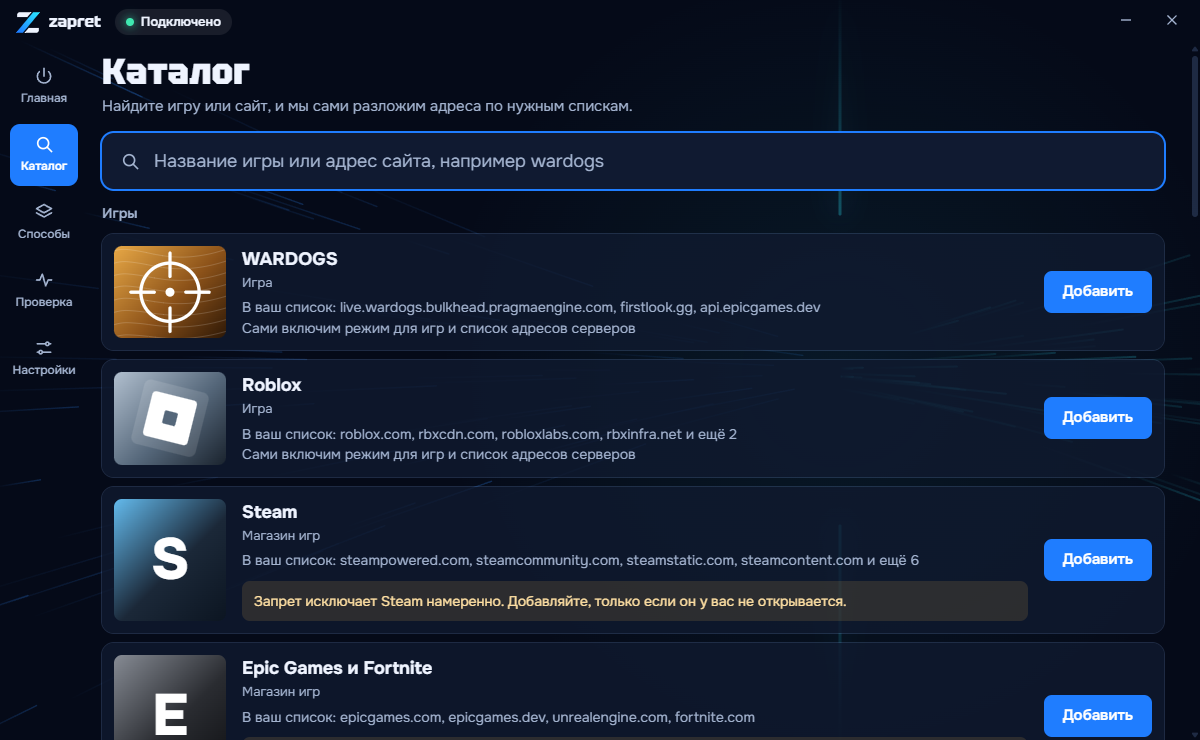
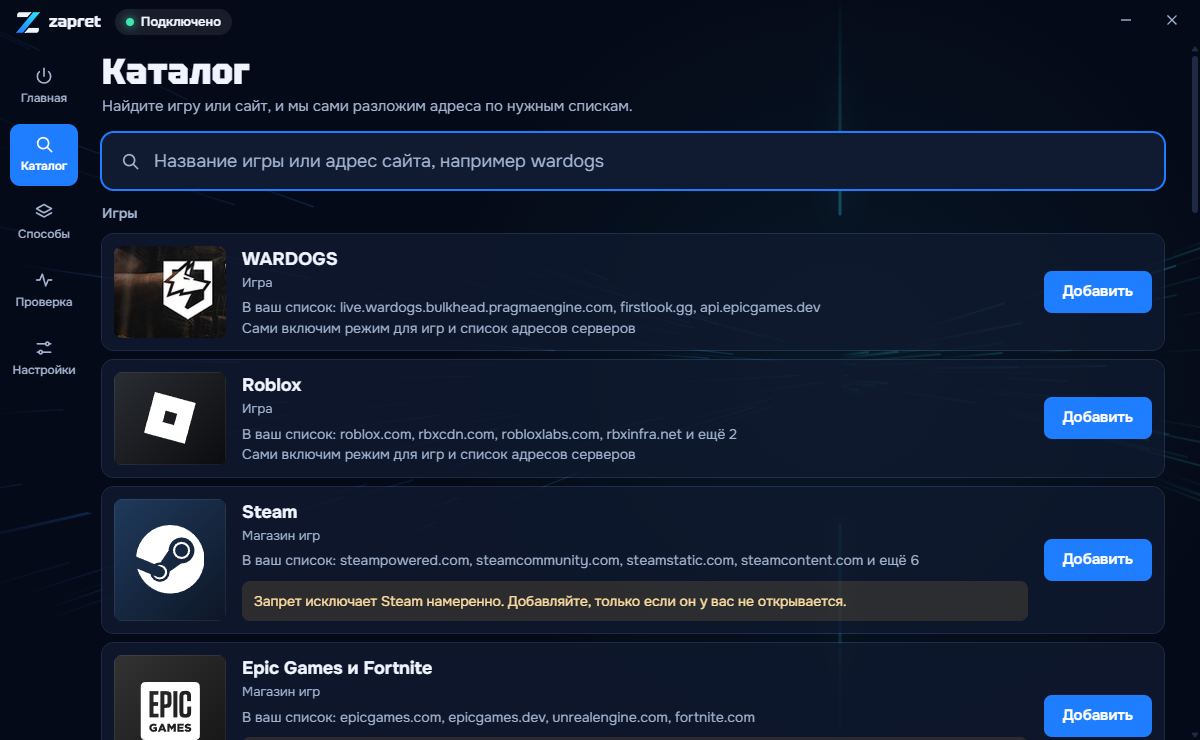
Настоящие логотипы игр и сервисов, версия 1.2.0

Changed region(s): [[0.0925, 0.4973, 0.2158, 0.8081], [0.0925, 0.3108, 0.2158, 0.4662], [0.0925, 0.8703, 0.185, 1.0]]

diff --git a/src/renderer/brands.js b/src/renderer/brands.js
@@ -1,0 +1,23 @@
+// Логотипы принадлежат их владельцам и показывают, какой сервис подключается.
+// Источники: simple-icons (CC0) и @lobehub/icons (MIT). Блок Minecraft нарисован здесь.
+const BRANDS = {
+  yt: { bg: 'linear-gradient(135deg,#ff0033,#c4001f)', svg: '<svg viewBox="0 0 24 24" aria-hidden="true"><path fill="#fff" d="M23.498 6.186a3.016 3.016 0 0 0-2.122-2.136C19.505 3.545 12 3.545 12 3.545s-7.505 0-9.377.505A3.017 3.017 0 0 0 .502 6.186C0 8.07 0 12 0 12s0 3.93.502 5.814a3.016 3.016 0 0 0 2.122 2.136c1.871.505 9.376.505 9.376.505s7.505 0 9.377-.505a3.015 3.015 0 0 0 2.122-2.136C24 15.93 24 12 24 12s0-3.93-.502-5.814zM9.545 15.568V8.432L15.818 12l-6.273 3.568z"/></svg>' },
+  dc: { bg: 'linear-gradient(135deg,#5865f2,#4149c9)', svg: '<svg viewBox="0 0 24 24" aria-hidden="true"><path fill="#fff" d="M20.317 4.3698a19.7913 19.7913 0 00-4.8851-1.5152.0741.0741 0 00-.0785.0371c-.211.3753-.4447.8648-.6083 1.2495-1.8447-.2762-3.68-.2762-5.4868 0-.1636-.3933-.4058-.8742-.6177-1.2495a.077.077 0 00-.0785-.037 19.7363 19.7363 0 00-4.8852 1.515.0699.0699 0 00-.0321.0277C.5334 9.0458-.319 13.5799.0992 18.0578a.0824.0824 0 00.0312.0561c2.0528 1.5076 4.0413 2.4228 5.9929 3.0294a.0777.0777 0 00.0842-.0276c.4616-.6304.8731-1.2952 1.226-1.9942a.076.076 0 00-.0416-.1057c-.6528-.2476-1.2743-.5495-1.8722-.8923a.077.077 0 01-.0076-.1277c.1258-.0943.2517-.1923.3718-.2914a.0743.0743 0 01.0776-.0105c3.9278 1.7933 8.18 1.7933 12.0614 0a.0739.0739 0 01.0785.0095c.1202.099.246.1981.3728.2924a.077.077 0 01-.0066.1276 12.2986 12.2986 0 01-1.873.8914.0766.0766 0 00-.0407.1067c.3604.698.7719 1.3628 1.225 1.9932a.076.076 0 00.0842.0286c1.961-.6067 3.9495-1.5219 6.0023-3.0294a.077.077 0 00.0313-.0552c.5004-5.177-.8382-9.6739-3.5485-13.6604a.061.061 0 00-.0312-.0286zM8.02 15.3312c-1.1825 0-2.1569-1.0857-2.1569-2.419 0-1.3332.9555-2.4189 2.157-2.4189 1.2108 0 2.1757 1.0952 2.1568 2.419 0 1.3332-.9555 2.4189-2.1569 2.4189zm7.9748 0c-1.1825 0-2.1569-1.0857-2.1569-2.419 0-1.3332.9554-2.4189 2.1569-2.4189 1.2108 0 2.1757 1.0952 2.1568 2.419 0 1.3332-.946 2.4189-2.1568 2.4189Z"/></svg>' },
+  minecraft: { bg: 'linear-gradient(135deg,#7cc0ea,#3f7fb5)', svg: '<svg viewBox="0 0 24 24" aria-hidden="true"><path fill="#86c552" d="M12 2l10 5-10 5L2 7z"/><path fill="#6aa83c" d="M2 7l10 5v3L2 10z"/><path fill="#4f8a2c" d="M22 7l-10 5v3l10-5z"/><path fill="#8d5f3c" d="M2 10l10 5v7L2 17z"/><path fill="#6c4629" d="M22 10l-10 5v7l10-5z"/><path fill="#a47350" d="M4 13l2 1v2l-2-1zM8 16l2 1v2l-2-1z"/><path fill="#55351e" d="M15 18l2-1v2l-2 1zM19 15l2-1v2l-2 1z"/></svg>' },
+  roblox: { bg: 'linear-gradient(135deg,#2a2d33,#0b0c0e)', svg: '<svg viewBox="0 0 24 24" aria-hidden="true"><path fill="#fff" d="M18.926 23.998 0 18.892 5.075.002 24 5.108ZM15.348 10.09l-5.282-1.453-1.414 5.273 5.282 1.453z"/></svg>' },
+  steam: { bg: 'linear-gradient(135deg,#1f3a5c,#0d1626)', svg: '<svg viewBox="0 0 24 24" aria-hidden="true"><path fill="#fff" d="M11.979 0C5.678 0 .511 4.86.022 11.037l6.432 2.658c.545-.371 1.203-.59 1.912-.59.063 0 .125.004.188.006l2.861-4.142V8.91c0-2.495 2.028-4.524 4.524-4.524 2.494 0 4.524 2.031 4.524 4.527s-2.03 4.525-4.524 4.525h-.105l-4.076 2.911c0 .052.004.105.004.159 0 1.875-1.515 3.396-3.39 3.396-1.635 0-3.016-1.173-3.331-2.727L.436 15.27C1.862 20.307 6.486 24 11.979 24c6.627 0 11.999-5.373 11.999-12S18.605 0 11.979 0zM7.54 18.21l-1.473-.61c.262.543.714.999 1.314 1.25 1.297.539 2.793-.076 3.332-1.375.263-.63.264-1.319.005-1.949s-.75-1.121-1.377-1.383c-.624-.26-1.29-.249-1.878-.03l1.523.63c.956.4 1.409 1.5 1.009 2.455-.397.957-1.497 1.41-2.454 1.012H7.54zm11.415-9.303c0-1.662-1.353-3.015-3.015-3.015-1.665 0-3.015 1.353-3.015 3.015 0 1.665 1.35 3.015 3.015 3.015 1.663 0 3.015-1.35 3.015-3.015zm-5.273-.005c0-1.252 1.013-2.266 2.265-2.266 1.249 0 2.266 1.014 2.266 2.266 0 1.251-1.017 2.265-2.266 2.265-1.253 0-2.265-1.014-2.265-2.265z"/></svg>' },
+  epic: { bg: 'linear-gradient(135deg,#333,#121212)', svg: '<svg viewBox="0 0 24 24" aria-hidden="true"><path fill="#fff" d="M3.537 0C2.165 0 1.66.506 1.66 1.879V18.44a4.262 4.262 0 00.02.433c.031.3.037.59.316.92.027.033.311.245.311.245.153.075.258.13.43.2l8.335 3.491c.433.199.614.276.928.27h.002c.314.006.495-.071.928-.27l8.335-3.492c.172-.07.277-.124.43-.2 0 0 .284-.211.311-.243.28-.33.285-.621.316-.92a4.261 4.261 0 00.02-.434V1.879c0-1.373-.506-1.88-1.878-1.88zm13.366 3.11h.68c1.138 0 1.688.553 1.688 1.696v1.88h-1.374v-1.8c0-.369-.17-.54-.523-.54h-.235c-.367 0-.537.17-.537.539v5.81c0 .369.17.54.537.54h.262c.353 0 .523-.171.523-.54V8.619h1.373v2.143c0 1.144-.562 1.71-1.7 1.71h-.694c-1.138 0-1.7-.566-1.7-1.71V4.82c0-1.144.562-1.709 1.7-1.709zm-12.186.08h3.114v1.274H6.117v2.603h1.648v1.275H6.117v2.774h1.74v1.275h-3.14zm3.816 0h2.198c1.138 0 1.7.564 1.7 1.708v2.445c0 1.144-.562 1.71-1.7 1.71h-.799v3.338h-1.4zm4.53 0h1.4v9.201h-1.4zm-3.13 1.235v3.392h.575c.354 0 .523-.171.523-.54V4.965c0-.368-.17-.54-.523-.54zm-3.74 10.147a1.708 1.708 0 01.591.108 1.745 1.745 0 01.49.299l-.452.546a1.247 1.247 0 00-.308-.195.91.91 0 00-.363-.068.658.658 0 00-.28.06.703.703 0 00-.224.163.783.783 0 00-.151.243.799.799 0 00-.056.299v.008a.852.852 0 00.056.31.7.7 0 00.157.245.736.736 0 00.238.16.774.774 0 00.303.058.79.79 0 00.445-.116v-.339h-.548v-.565H7.37v1.255a2.019 2.019 0 01-.524.307 1.789 1.789 0 01-.683.123 1.642 1.642 0 01-.602-.107 1.46 1.46 0 01-.478-.3 1.371 1.371 0 01-.318-.455 1.438 1.438 0 01-.115-.58v-.008a1.426 1.426 0 01.113-.57 1.449 1.449 0 01.312-.46 1.418 1.418 0 01.474-.309 1.58 1.58 0 01.598-.111 1.708 1.708 0 01.045 0zm11.963.008a2.006 2.006 0 01.612.094 1.61 1.61 0 01.507.277l-.386.546a1.562 1.562 0 00-.39-.205 1.178 1.178 0 00-.388-.07.347.347 0 00-.208.052.154.154 0 00-.07.127v.008a.158.158 0 00.022.084.198.198 0 00.076.066.831.831 0 00.147.06c.062.02.14.04.236.061a3.389 3.389 0 01.43.122 1.292 1.292 0 01.328.17.678.678 0 01.207.24.739.739 0 01.071.337v.008a.865.865 0 01-.081.382.82.82 0 01-.229.285 1.032 1.032 0 01-.353.18 1.606 1.606 0 01-.46.061 2.16 2.16 0 01-.71-.116 1.718 1.718 0 01-.593-.346l.43-.514c.277.223.578.335.9.335a.457.457 0 00.236-.05.157.157 0 00.082-.142v-.008a.15.15 0 00-.02-.077.204.204 0 00-.073-.066.753.753 0 00-.143-.062 2.45 2.45 0 00-.233-.062 5.036 5.036 0 01-.413-.113 1.26 1.26 0 01-.331-.16.72.72 0 01-.222-.243.73.73 0 01-.082-.36v-.008a.863.863 0 01.074-.359.794.794 0 01.214-.283 1.007 1.007 0 01.34-.185 1.423 1.423 0 01.448-.066 2.006 2.006 0 01.025 0zm-9.358.025h.742l1.183 2.81h-.825l-.203-.499H8.623l-.198.498h-.81zm2.197.02h.814l.663 1.08.663-1.08h.814v2.79h-.766v-1.602l-.711 1.091h-.016l-.707-1.083v1.593h-.754zm3.469 0h2.235v.658h-1.473v.422h1.334v.61h-1.334v.442h1.493v.658h-2.255zm-5.3.897l-.315.793h.624zm-1.145 5.19h8.014l-4.09 1.348z"/></svg>' },
+  riot: { bg: 'linear-gradient(135deg,#eb0029,#a8001d)', svg: '<svg viewBox="0 0 24 24" aria-hidden="true"><path fill="#fff" d="M13.458.86 0 7.093l3.353 12.761 2.552-.313-.701-8.024.838-.373 1.447 8.202 4.361-.535-.775-8.857.83-.37 1.591 9.025 4.412-.542-.849-9.708.84-.374 1.74 9.87L24 17.318V3.5Zm.316 19.356.222 1.256L24 23.14v-4.18l-10.22 1.256Z"/></svg>' },
+  battlenet: { bg: 'linear-gradient(135deg,#1a95ff,#0a5ec4)', svg: '<svg viewBox="0 0 24 24" aria-hidden="true"><path fill="#fff" d="M18.94 8.296C15.9 6.892 11.534 6 7.426 6.332c.206-1.36.714-2.308 1.548-2.508 1.148-.275 2.4.48 3.594 1.854.782.102 1.71.28 2.355.429C12.747 2.013 9.828-.282 7.607.565c-1.688.644-2.553 2.97-2.448 6.094-2.2.468-3.915 1.3-5.013 2.495-.056.065-.181.227-.137.305.034.058.146-.008.194-.04 1.274-.89 2.904-1.373 5.027-1.676.303 3.333 1.713 7.56 4.055 10.952-1.28.502-2.356.536-2.946-.087-.812-.856-.784-2.318-.19-4.04a26.764 26.764 0 0 1-.807-2.254c-2.459 3.934-2.986 7.61-1.143 9.11 1.402 1.14 3.847.725 6.502-.926 1.505 1.672 3.083 2.74 4.667 3.094.084.015.287.043.332-.034.034-.06-.08-.124-.131-.149-1.408-.657-2.64-1.828-3.964-3.515 2.735-1.929 5.691-5.263 7.457-8.988 1.076.86 1.64 1.773 1.398 2.595-.336 1.131-1.615 1.84-3.403 2.185a27.697 27.697 0 0 1-1.548 1.826c4.634.16 8.08-1.22 8.458-3.565.286-1.786-1.295-3.696-4.053-5.17.696-2.139.832-4.04.346-5.588-.029-.08-.106-.27-.196-.27-.068 0-.067.13-.063.187.135 1.547-.263 3.2-1.062 5.19zm-8.533 9.869c-1.96-3.145-3.09-6.849-3.082-10.594 3.702-.124 7.474.748 10.714 2.627-1.743 3.269-4.385 6.1-7.633 7.966h.001z"/></svg>' },
+  newgrounds: { bg: 'linear-gradient(135deg,#f9a12e,#dd6a00)', svg: '<svg viewBox="0 0 24 24" aria-hidden="true"><path fill="#fff" d="M1.187 3.236C.397 3.966.002 4.876.002 5.97v15.584c-.02.243.101.364.365.364H3.07c.243 0 .365-.121.365-.364V6.03c0-.405.212-.608.638-.608H6.29c.405 0 .608.203.608.608v15.523c0 .243.142.364.425.364h2.643c.243 0 .374-.121.395-.364V5.97c-.02-1.093-.415-2.005-1.185-2.734A4.047 4.047 0 0 0 6.29 2.082H4.073c-1.134 0-2.096.385-2.886 1.154m20.9 18.105c.263-.162.506-.344.728-.547.79-.77 1.185-1.68 1.185-2.734v-5.62c-.02-.263-.152-.394-.395-.394h-4.374c-.263 0-.395.131-.395.394v2.522c0 .263.132.395.395.395h.941c.244 0 .365.141.365.425v2.278c0 .385-.192.577-.577.577h-2.248c-.425 0-.638-.192-.638-.577V6.03c0-.404.213-.607.638-.607h2.248c.385 0 .577.203.577.608V8.34c-.02.243.111.374.395.394h2.673c.243-.02.375-.151.395-.394V5.97c0-1.073-.395-1.984-1.185-2.734-.81-.77-1.762-1.154-2.855-1.154h-2.248c-1.114 0-2.066.385-2.855 1.154-.83.75-1.236 1.66-1.216 2.734v12.09c-.02 1.053.385 1.965 1.216 2.734.222.203.465.385.729.547.627.385 1.336.577 2.126.577h2.248c.79 0 1.498-.192 2.126-.577Z"/></svg>' },
+  twitch: { bg: 'linear-gradient(135deg,#9146ff,#6425d0)', svg: '<svg viewBox="0 0 24 24" aria-hidden="true"><path fill="#fff" d="M11.571 4.714h1.715v5.143H11.57zm4.715 0H18v5.143h-1.714zM6 0L1.714 4.286v15.428h5.143V24l4.286-4.286h3.428L22.286 12V0zm14.571 11.143l-3.428 3.428h-3.429l-3 3v-3H6.857V1.714h13.714Z"/></svg>' },
+  x: { bg: 'linear-gradient(135deg,#25282e,#000)', svg: '<svg viewBox="0 0 24 24" aria-hidden="true"><path fill="#fff" d="M14.234 10.162 22.977 0h-2.072l-7.591 8.824L7.251 0H.258l9.168 13.343L.258 24H2.33l8.016-9.318L16.749 24h6.993zm-2.837 3.299-.929-1.329L3.076 1.56h3.182l5.965 8.532.929 1.329 7.754 11.09h-3.182z"/></svg>' },
+  instagram: { bg: 'linear-gradient(45deg,#feda75,#fa7e1e 25%,#d62976 55%,#962fbf 80%,#4f5bd5)', svg: '<svg viewBox="0 0 24 24" aria-hidden="true"><path fill="#fff" d="M7.0301.084c-1.2768.0602-2.1487.264-2.911.5634-.7888.3075-1.4575.72-2.1228 1.3877-.6652.6677-1.075 1.3368-1.3802 2.127-.2954.7638-.4956 1.6365-.552 2.914-.0564 1.2775-.0689 1.6882-.0626 4.947.0062 3.2586.0206 3.6671.0825 4.9473.061 1.2765.264 2.1482.5635 2.9107.308.7889.72 1.4573 1.388 2.1228.6679.6655 1.3365 1.0743 2.1285 1.38.7632.295 1.6361.4961 2.9134.552 1.2773.056 1.6884.069 4.9462.0627 3.2578-.0062 3.668-.0207 4.9478-.0814 1.28-.0607 2.147-.2652 2.9098-.5633.7889-.3086 1.4578-.72 2.1228-1.3881.665-.6682 1.0745-1.3378 1.3795-2.1284.2957-.7632.4966-1.636.552-2.9124.056-1.2809.0692-1.6898.063-4.948-.0063-3.2583-.021-3.6668-.0817-4.9465-.0607-1.2797-.264-2.1487-.5633-2.9117-.3084-.7889-.72-1.4568-1.3876-2.1228C21.2982 1.33 20.628.9208 19.8378.6165 19.074.321 18.2017.1197 16.9244.0645 15.6471.0093 15.236-.005 11.977.0014 8.718.0076 8.31.0215 7.0301.0839m.1402 21.6932c-1.17-.0509-1.8053-.2453-2.2287-.408-.5606-.216-.96-.4771-1.3819-.895-.422-.4178-.6811-.8186-.9-1.378-.1644-.4234-.3624-1.058-.4171-2.228-.0595-1.2645-.072-1.6442-.079-4.848-.007-3.2037.0053-3.583.0607-4.848.05-1.169.2456-1.805.408-2.2282.216-.5613.4762-.96.895-1.3816.4188-.4217.8184-.6814 1.3783-.9003.423-.1651 1.0575-.3614 2.227-.4171 1.2655-.06 1.6447-.072 4.848-.079 3.2033-.007 3.5835.005 4.8495.0608 1.169.0508 1.8053.2445 2.228.408.5608.216.96.4754 1.3816.895.4217.4194.6816.8176.9005 1.3787.1653.4217.3617 1.056.4169 2.2263.0602 1.2655.0739 1.645.0796 4.848.0058 3.203-.0055 3.5834-.061 4.848-.051 1.17-.245 1.8055-.408 2.2294-.216.5604-.4763.96-.8954 1.3814-.419.4215-.8181.6811-1.3783.9-.4224.1649-1.0577.3617-2.2262.4174-1.2656.0595-1.6448.072-4.8493.079-3.2045.007-3.5825-.006-4.848-.0608M16.953 5.5864A1.44 1.44 0 1 0 18.39 4.144a1.44 1.44 0 0 0-1.437 1.4424M5.8385 12.012c.0067 3.4032 2.7706 6.1557 6.173 6.1493 3.4026-.0065 6.157-2.7701 6.1506-6.1733-.0065-3.4032-2.771-6.1565-6.174-6.1498-3.403.0067-6.156 2.771-6.1496 6.1738M8 12.0077a4 4 0 1 1 4.008 3.9921A3.9996 3.9996 0 0 1 8 12.0077"/></svg>' },
+  facebook: { bg: 'linear-gradient(135deg,#1f83f5,#0f5fd1)', svg: '<svg viewBox="0 0 24 24" aria-hidden="true"><path fill="#fff" d="M9.101 23.691v-7.98H6.627v-3.667h2.474v-1.58c0-4.085 1.848-5.978 5.858-5.978.401 0 .955.042 1.468.103a8.68 8.68 0 0 1 1.141.195v3.325a8.623 8.623 0 0 0-.653-.036 26.805 26.805 0 0 0-.733-.009c-.707 0-1.259.096-1.675.309a1.686 1.686 0 0 0-.679.622c-.258.42-.374.995-.374 1.752v1.297h3.919l-.386 2.103-.287 1.564h-3.246v8.245C19.396 23.238 24 18.179 24 12.044c0-6.627-5.373-12-12-12s-12 5.373-12 12c0 5.628 3.874 10.35 9.101 11.647Z"/></svg>' },
+  chatgpt: { bg: 'linear-gradient(135deg,#14b58e,#0a7a5e)', svg: '<svg viewBox="0 0 24 24" aria-hidden="true"><path fill-rule="evenodd" fill="#fff" d="M9.205 8.658v-2.26c0-.19.072-.333.238-.428l4.543-2.616c.619-.357 1.356-.523 2.117-.523 2.854 0 4.662 2.212 4.662 4.566 0 .167 0 .357-.024.547l-4.71-2.759a.797.797 0 00-.856 0l-5.97 3.473zm10.609 8.8V12.06c0-.333-.143-.57-.429-.737l-5.97-3.473 1.95-1.118a.433.433 0 01.476 0l4.543 2.617c1.309.76 2.189 2.378 2.189 3.948 0 1.808-1.07 3.473-2.76 4.163zM7.802 12.703l-1.95-1.142c-.167-.095-.239-.238-.239-.428V5.899c0-2.545 1.95-4.472 4.591-4.472 1 0 1.927.333 2.712.928L8.23 5.067c-.285.166-.428.404-.428.737v6.898zM12 15.128l-2.795-1.57v-3.33L12 8.658l2.795 1.57v3.33L12 15.128zm1.796 7.23c-1 0-1.927-.332-2.712-.927l4.686-2.712c.285-.166.428-.404.428-.737v-6.898l1.974 1.142c.167.095.238.238.238.428v5.233c0 2.545-1.974 4.472-4.614 4.472zm-5.637-5.303l-4.544-2.617c-1.308-.761-2.188-2.378-2.188-3.948A4.482 4.482 0 014.21 6.327v5.423c0 .333.143.571.428.738l5.947 3.449-1.95 1.118a.432.432 0 01-.476 0zm-.262 3.9c-2.688 0-4.662-2.021-4.662-4.519 0-.19.024-.38.047-.57l4.686 2.71c.286.167.571.167.856 0l5.97-3.448v2.26c0 .19-.07.333-.237.428l-4.543 2.616c-.619.357-1.356.523-2.117.523zm5.899 2.83a5.947 5.947 0 005.827-4.756C22.287 18.339 24 15.84 24 13.296c0-1.665-.713-3.282-1.998-4.448.119-.5.19-.999.19-1.498 0-3.401-2.759-5.947-5.946-5.947-.642 0-1.26.095-1.88.31A5.962 5.962 0 0010.205 0a5.947 5.947 0 00-5.827 4.757C1.713 5.447 0 7.945 0 10.49c0 1.666.713 3.283 1.998 4.448-.119.5-.19 1-.19 1.499 0 3.401 2.759 5.946 5.946 5.946.642 0 1.26-.095 1.88-.309a5.96 5.96 0 004.162 1.713z"/></svg>' },
+  grok: { bg: 'linear-gradient(135deg,#25282e,#000)', svg: '<svg viewBox="0 0 24 24" aria-hidden="true"><path fill-rule="evenodd" fill="#fff" d="M9.27 15.29l7.978-5.897c.391-.29.95-.177 1.137.272.98 2.369.542 5.215-1.41 7.169-1.951 1.954-4.667 2.382-7.149 1.406l-2.711 1.257c3.889 2.661 8.611 2.003 11.562-.953 2.341-2.344 3.066-5.539 2.388-8.42l.006.007c-.983-4.232.242-5.924 2.75-9.383.06-.082.12-.164.179-.248l-3.301 3.305v-.01L9.267 15.292M7.623 16.723c-2.792-2.67-2.31-6.801.071-9.184 1.761-1.763 4.647-2.483 7.166-1.425l2.705-1.25a7.808 7.808 0 00-1.829-1A8.975 8.975 0 005.984 5.83c-2.533 2.536-3.33 6.436-1.962 9.764 1.022 2.487-.653 4.246-2.34 6.022-.599.63-1.199 1.259-1.682 1.925l7.62-6.815"/></svg>' },
+  deepseek: { bg: 'linear-gradient(135deg,#4d6bfe,#2f49d4)', svg: '<svg viewBox="0 0 24 24" aria-hidden="true"><path fill="#fff" d="M23.748 4.651c-.254-.124-.364.113-.512.233-.051.04-.094.09-.137.137-.372.397-.806.657-1.373.626-.829-.046-1.537.214-2.163.848-.133-.782-.575-1.248-1.247-1.548-.352-.155-.708-.311-.955-.65-.172-.24-.219-.509-.305-.774-.055-.16-.11-.323-.293-.35-.2-.031-.278.136-.356.276-.313.572-.434 1.202-.422 1.84.027 1.436.633 2.58 1.838 3.393.137.094.172.187.129.323-.082.28-.18.553-.266.833-.055.179-.137.218-.328.14a5.5 5.5 0 0 1-1.737-1.179c-.857-.828-1.631-1.743-2.597-2.46a12 12 0 0 0-.689-.47c-.985-.957.13-1.743.387-1.836.27-.098.094-.433-.778-.428-.872.003-1.67.295-2.687.685a3 3 0 0 1-.465.136 9.6 9.6 0 0 0-2.883-.101c-1.885.21-3.39 1.1-4.497 2.622C.082 8.776-.231 10.854.152 13.02c.403 2.284 1.568 4.175 3.36 5.653 1.857 1.533 3.997 2.284 6.438 2.14 1.482-.085 3.132-.284 4.994-1.86.47.234.962.328 1.78.398.629.058 1.235-.031 1.705-.129.735-.155.684-.836.418-.961-2.155-1.004-1.682-.595-2.112-.926 1.095-1.295 2.768-3.598 3.284-6.733.05-.346.115-.834.108-1.114-.004-.171.035-.238.23-.257a4.2 4.2 0 0 0 1.545-.475c1.397-.763 1.96-2.016 2.093-3.517.02-.23-.004-.467-.247-.588M11.58 18.168c-2.088-1.642-3.101-2.183-3.52-2.16-.39.024-.32.472-.234.763.09.288.207.487.371.74.114.167.192.416-.113.603-.673.416-1.842-.14-1.897-.168-1.361-.801-2.5-1.86-3.301-3.306-.775-1.393-1.225-2.888-1.299-4.482-.02-.385.094-.522.477-.592a4.7 4.7 0 0 1 1.53-.038c2.131.311 3.946 1.264 5.467 2.774.868.86 1.525 1.887 2.202 2.89.72 1.066 1.494 2.082 2.48 2.915.348.291.626.513.892.677-.802.09-2.14.109-3.055-.615zm1.001-6.44a.306.306 0 0 1 .415-.287.3.3 0 0 1 .113.074.3.3 0 0 1 .086.214c0 .17-.136.307-.308.307a.303.303 0 0 1-.306-.307m3.11 1.596c-.2.081-.4.151-.591.16a1.25 1.25 0 0 1-.798-.254c-.274-.23-.47-.358-.551-.758a1.7 1.7 0 0 1 .015-.588c.07-.327-.007-.537-.238-.727-.188-.156-.426-.199-.689-.199a.6.6 0 0 1-.254-.078.253.253 0 0 1-.114-.358 1 1 0 0 1 .192-.21c.356-.202.767-.136 1.146.016.352.144.618.408 1.001.782.392.451.462.576.685.915.176.264.336.536.446.848.066.194-.02.353-.25.45"/></svg>' },
+  github: { bg: 'linear-gradient(135deg,#2d333b,#0d1117)', svg: '<svg viewBox="0 0 24 24" aria-hidden="true"><path fill="#fff" d="M12 .297c-6.63 0-12 5.373-12 12 0 5.303 3.438 9.8 8.205 11.385.6.113.82-.258.82-.577 0-.285-.01-1.04-.015-2.04-3.338.724-4.042-1.61-4.042-1.61C4.422 18.07 3.633 17.7 3.633 17.7c-1.087-.744.084-.729.084-.729 1.205.084 1.838 1.236 1.838 1.236 1.07 1.835 2.809 1.305 3.495.998.108-.776.417-1.305.76-1.605-2.665-.3-5.466-1.332-5.466-5.93 0-1.31.465-2.38 1.235-3.22-.135-.303-.54-1.523.105-3.176 0 0 1.005-.322 3.3 1.23.96-.267 1.98-.399 3-.405 1.02.006 2.04.138 3 .405 2.28-1.552 3.285-1.23 3.285-1.23.645 1.653.24 2.873.12 3.176.765.84 1.23 1.91 1.23 3.22 0 4.61-2.805 5.625-5.475 5.92.42.36.81 1.096.81 2.22 0 1.606-.015 2.896-.015 3.286 0 .315.21.69.825.57C20.565 22.092 24 17.592 24 12.297c0-6.627-5.373-12-12-12"/></svg>' },
+  pypi: { bg: 'linear-gradient(135deg,#3f83bd,#285680)', svg: '<svg viewBox="0 0 24 24" aria-hidden="true"><path fill="#fff" d="M23.922 13.58v3.912L20.55 18.72l-.078.055.052.037 3.45-1.256.026-.036v-3.997l-.053-.036-.025.092z M23.621 5.618l-3.04 1.107v3.912l3.339-1.215V5.509zM23.92 13.457V9.544l-3.336 1.215v3.913zM20.47 14.71V10.8L17.17 12v3.913zM17.034 19.996v-3.912l-3.313 1.206v3.912zM17.17 16.057v3.868l3.314-1.206V14.85l-3.314 1.206zm2.093 1.882c-.367.134-.663-.074-.663-.463s.296-.814.663-.947c.365-.133.662.075.662.464s-.297.814-.662.946z M13.225 9.315l.365-.132-3.285-1.197-3.323 1.21.102.037 3.184 1.16zM20.507 10.664V6.751L17.17 7.965v3.913zM17.058 11.918V8.005l-3.302 1.202v3.912zM13.643 9.246l-3.336 1.215v3.913l3.336-1.215zM6.907 13.165l3.322 1.209v-3.913L6.907 9.252z M10.34 7.873l3.281 1.193V5.198l-3.28-1.193zM20.507 2.715L17.19 3.922v3.913l3.317-1.207zM16.95 3.903L13.724 2.73l-3.269 1.19 3.225 1.174zM15.365 4.606l-1.624.592v3.868l3.317-1.207V3.991l-1.693.615zm-.391 2.778c-.367.134-.662-.074-.662-.464s.295-.813.662-.946c.366-.133.663.074.663.464s-.297.813-.663.946z M10.229 18.41v-3.914l-3.322-1.209V17.2zM13.678 17.182v-3.913l-3.371 1.227v3.913z M13.756 17.154l3.3-1.2V12.04l-3.3 1.2zM13.678 21.217l-3.371 1.227v-3.912h-.078v3.912l-3.322-1.209v-3.913l-.053-.058-.025-.06-3.336-1.21v-3.948l.034.013 3.287 1.196.015-.078-3.261-1.187 3.26-1.187v-.109L3.876 9.62l-.307-.112 3.26-1.188v.877l.079-.055V6.769l3.257 1.185.058-.061L7.084 6.75l-.102-.037 3.24-1.179v-.083L6.854 6.677v.018l-.025.018v1.523L3.44 9.47v.02l-.025.017v4.007l-3.39 1.233v.019L0 14.784v3.995l.025.037 3.4 1.237.008-.006.007.01 3.4 1.238.008-.006.006.01 3.4 1.237.014-.009.012.01 3.45-1.256.026-.037-.078-.027zM3.493 9.563l3.257 1.185-3.257 1.187V9.562zM3.4 19.96L.078 18.752v-3.913l2.361.86.96.349v3.913zm.015-3.99L.335 14.85l-.182-.066 3.262-1.187v2.374zm3.399 5.231l-3.321-1.209v-3.912l3.321 1.209v3.912zM23.791 5.434l-3.21-1.17v2.338zM20.387 2.643l-3.24-1.18-3.27 1.19 3.247 1.182z"/></svg>' },
+  signal: { bg: 'linear-gradient(135deg,#3b45fd,#2730c9)', svg: '<svg viewBox="0 0 24 24" aria-hidden="true"><path fill="#fff" d="M12 0q-.934 0-1.83.139l.17 1.111a11 11 0 0 1 3.32 0l.172-1.111A12 12 0 0 0 12 0M9.152.34A12 12 0 0 0 5.77 1.742l.584.961a10.8 10.8 0 0 1 3.066-1.27zm5.696 0-.268 1.094a10.8 10.8 0 0 1 3.066 1.27l.584-.962A12 12 0 0 0 14.848.34M12 2.25a9.75 9.75 0 0 0-8.539 14.459c.074.134.1.292.064.441l-1.013 4.338 4.338-1.013a.62.62 0 0 1 .441.064A9.7 9.7 0 0 0 12 21.75c5.385 0 9.75-4.365 9.75-9.75S17.385 2.25 12 2.25m-7.092.068a12 12 0 0 0-2.59 2.59l.909.664a11 11 0 0 1 2.345-2.345zm14.184 0-.664.909a11 11 0 0 1 2.345 2.345l.909-.664a12 12 0 0 0-2.59-2.59M1.742 5.77A12 12 0 0 0 .34 9.152l1.094.268a10.8 10.8 0 0 1 1.269-3.066zm20.516 0-.961.584a10.8 10.8 0 0 1 1.27 3.066l1.093-.268a12 12 0 0 0-1.402-3.383M.138 10.168A12 12 0 0 0 0 12q0 .934.139 1.83l1.111-.17A11 11 0 0 1 1.125 12q0-.848.125-1.66zm23.723.002-1.111.17q.125.812.125 1.66c0 .848-.042 1.12-.125 1.66l1.111.172a12.1 12.1 0 0 0 0-3.662M1.434 14.58l-1.094.268a12 12 0 0 0 .96 2.591l-.265 1.14 1.096.255.36-1.539-.188-.365a10.8 10.8 0 0 1-.87-2.35m21.133 0a10.8 10.8 0 0 1-1.27 3.067l.962.584a12 12 0 0 0 1.402-3.383zm-1.793 3.848a11 11 0 0 1-2.345 2.345l.664.909a12 12 0 0 0 2.59-2.59zm-19.959 1.1L.357 21.48a1.8 1.8 0 0 0 2.162 2.161l1.954-.455-.256-1.095-1.953.455a.675.675 0 0 1-.81-.81l.454-1.954zm16.832 1.769a10.8 10.8 0 0 1-3.066 1.27l.268 1.093a12 12 0 0 0 3.382-1.402zm-10.94.213-1.54.36.256 1.095 1.139-.266c.814.415 1.683.74 2.591.961l.268-1.094a10.8 10.8 0 0 1-2.35-.869zm3.634 1.24-.172 1.111a12.1 12.1 0 0 0 3.662 0l-.17-1.111q-.812.125-1.66.125a11 11 0 0 1-1.66-.125"/></svg>' },
+};

diff --git a/src/shared/catalog.js b/src/shared/catalog.js
@@ -3,11 +3,11 @@
 // unexclude снимает запись из list-exclude.txt: без этого домен из каталога не сработает.
 const CATALOG = [
   // Игры
-  { id: 'wardogs', name: 'WARDOGS', kind: 'Игра', group: 'game', art: 'war', game: true,
+  { id: 'wardogs', name: 'WARDOGS', kind: 'Игра', group: 'game', art: 'wardogs', game: true,
     domains: ['live.wardogs.bulkhead.pragmaengine.com', 'firstlook.gg', 'api.epicgames.dev'],
     probe: ['live.wardogs.bulkhead.pragmaengine.com', 'firstlook.gg'],
     aliases: ['wardogs', 'вардогс', 'war dogs', 'вар догс', 'bulkhead'] },
-  { id: 'roblox', name: 'Roblox', kind: 'Игра', group: 'game', art: 'cube', game: true,
+  { id: 'roblox', name: 'Roblox', kind: 'Игра', group: 'game', art: 'roblox', game: true,
     domains: ['roblox.com', 'rbxcdn.com', 'robloxlabs.com', 'rbxinfra.net', 'rblx.com', 'robloxapp.com'],
     ips: ['103.140.28.0/23', '128.116.0.0/17', '141.193.3.0/24', '205.201.62.0/24'],
     probe: ['www.roblox.com', 'apis.roblox.com'],
@@ -30,16 +30,16 @@ const CATALOG = [
     probe: ['www.riotgames.com', 'playvalorant.com'],
     note: 'Запрет исключает Riot намеренно, а античит Vanguard может реагировать на драйвер обхода.',
     aliases: ['valorant', 'валорант', 'league of legends', 'лига легенд', 'lol', 'лол', 'riot', 'райот'] },
-  { id: 'battlenet', name: 'Battle.net', kind: 'Магазин игр', group: 'game', art: 'blue',
+  { id: 'battlenet', name: 'Battle.net', kind: 'Магазин игр', group: 'game', art: 'battlenet',
     domains: ['battle.net', 'blizzard.com'],
     probe: ['www.blizzard.com', 'battle.net'],
     aliases: ['battle.net', 'battlenet', 'батлнет', 'blizzard', 'близзард', 'overwatch', 'овервотч', 'wow', 'вов', 'diablo', 'диабло'] },
-  { id: 'minecraft', name: 'Minecraft и моды', kind: 'Игра', group: 'game', art: 'mine',
+  { id: 'minecraft', name: 'Minecraft и моды', kind: 'Игра', group: 'game', art: 'minecraft',
     domains: ['minecraft.net', 'mojang.com', 'minecraftservices.com', 'modrinth.com'],
     unexclude: ['minecraft.net'],
     probe: ['www.minecraft.net', 'modrinth.com'],
     aliases: ['minecraft', 'майнкрафт', 'майн', 'mojang', 'modrinth', 'модринт'] },
-  { id: 'newgrounds', name: 'Newgrounds', kind: 'Музыка для Geometry Dash', group: 'game', art: 'orange',
+  { id: 'newgrounds', name: 'Newgrounds', kind: 'Музыка для Geometry Dash', group: 'game', art: 'newgrounds',
     domains: ['newgrounds.com', 'ngfiles.com'],
     probe: ['www.newgrounds.com'],
     aliases: ['newgrounds', 'geometry dash', 'геометри даш', 'гд', 'gd'] },
@@ -54,39 +54,39 @@ const CATALOG = [
     domains: ['x.com', 'twitter.com', 'twimg.com', 't.co'],
     probe: ['x.com', 'abs.twimg.com'],
     aliases: ['x', 'x.com', 'twitter', 'твиттер', 'икс'] },
-  { id: 'instagram', name: 'Instagram', kind: 'Соцсеть', group: 'web', art: 'insta',
+  { id: 'instagram', name: 'Instagram', kind: 'Соцсеть', group: 'web', art: 'instagram',
     domains: ['instagram.com', 'cdninstagram.com', 'fbcdn.net', 'fbsbx.com'],
     probe: ['www.instagram.com', 'static.cdninstagram.com'],
     aliases: ['instagram', 'инстаграм', 'инста', 'инстаграмм'] },
-  { id: 'facebook', name: 'Facebook и Messenger', kind: 'Соцсеть', group: 'web', art: 'fb',
+  { id: 'facebook', name: 'Facebook и Messenger', kind: 'Соцсеть', group: 'web', art: 'facebook',
     domains: ['facebook.com', 'facebook.net', 'fbcdn.net', 'fbsbx.com', 'fb.com', 'fb.me', 'messenger.com'],
     probe: ['www.facebook.com', 'www.messenger.com'],
     aliases: ['facebook', 'фейсбук', 'фэйсбук', 'messenger', 'мессенджер'] },
 
   // Работа и нейросети
-  { id: 'chatgpt', name: 'ChatGPT', kind: 'Нейросеть', group: 'web', art: 'gpt',
+  { id: 'chatgpt', name: 'ChatGPT', kind: 'Нейросеть', group: 'web', art: 'chatgpt',
     domains: ['chatgpt.com', 'openai.com', 'oaistatic.com', 'oaiusercontent.com'],
     probe: ['chatgpt.com', 'cdn.oaistatic.com'],
     note: 'OpenAI сама ограничивает доступ из России. Обход провайдера это не отменяет.',
     aliases: ['chatgpt', 'чатгпт', 'чат гпт', 'gpt', 'гпт', 'openai'] },
-  { id: 'grok', name: 'Grok', kind: 'Нейросеть', group: 'web', art: 'x',
+  { id: 'grok', name: 'Grok', kind: 'Нейросеть', group: 'web', art: 'grok',
     domains: ['grok.com', 'x.ai'],
     probe: ['grok.com'],
     note: 'Участники обсуждений пишут, что Grok может потребовать VPN или смены DNS.',
     aliases: ['grok', 'грок'] },
-  { id: 'deepseek', name: 'DeepSeek', kind: 'Нейросеть', group: 'web', art: 'blue',
+  { id: 'deepseek', name: 'DeepSeek', kind: 'Нейросеть', group: 'web', art: 'deepseek',
     domains: ['deepseek.com'],
     probe: ['www.deepseek.com'],
     aliases: ['deepseek', 'дипсик'] },
-  { id: 'github', name: 'GitHub', kind: 'Для разработчиков', group: 'web', art: 'git',
+  { id: 'github', name: 'GitHub', kind: 'Для разработчиков', group: 'web', art: 'github',
     domains: ['github.com', 'githubusercontent.com', 'githubassets.com'],
     probe: ['github.com', 'raw.githubusercontent.com'],
     aliases: ['github', 'гитхаб', 'гит'] },
-  { id: 'pypi', name: 'PyPI', kind: 'Для разработчиков', group: 'web', art: 'yellow',
+  { id: 'pypi', name: 'PyPI', kind: 'Для разработчиков', group: 'web', art: 'pypi',
     domains: ['pypi.org', 'pythonhosted.org'],
     probe: ['pypi.org'],
     aliases: ['pypi', 'pip', 'python', 'питон'] },
-  { id: 'signal', name: 'Signal', kind: 'Мессенджер', group: 'web', art: 'blue',
+  { id: 'signal', name: 'Signal', kind: 'Мессенджер', group: 'web', art: 'signal',
     domains: ['signal.org'],
     probe: ['signal.org'],
     aliases: ['signal', 'сигнал'] },

diff --git a/src/renderer/app.js b/src/renderer/app.js
@@ -28,37 +28,11 @@ const ic = {
 };
 const icon = (n, s = 20) => `<svg class="ic" width="${s}" height="${s}" viewBox="0 0 24 24" fill="none" stroke="currentColor" stroke-width="2" stroke-linecap="round" stroke-linejoin="round" aria-hidden="true">${ic[n]}</svg>`;
 
-const ART = {
-  war: ['#f0b04a', '#8c5219', '#241204'], cube: ['#b9c7d6', '#55677a', '#141c26'], steam: ['#66c0f4', '#1b2838', '#0b1420'], epic: ['#8a8f98', '#2a2c31', '#0d0e11'],
-  riot: ['#ff5a5f', '#b3122a', '#30060e'], blue: ['#5aa9ff', '#1b5fb8', '#0a1d3f'], mine: ['#7bc96f', '#3f7d3a', '#14290f'], orange: ['#ffb057', '#d9681d', '#3b1605'],
-  twitch: ['#b18cff', '#6c35d9', '#1f0c4a'], x: ['#8f97a3', '#272a30', '#08090b'], insta: ['#ffb347', '#e1306c', '#5b1a9e'], fb: ['#6ea8ff', '#1f5fd6', '#0a2257'],
-  gpt: ['#5be3b9', '#128a6c', '#05302a'], git: ['#a4b1c2', '#3c4757', '#10151c'], yellow: ['#ffe27a', '#d9a521', '#3b2b05'], site: ['#7c8ca3', '#3a4759', '#121924'],
-};
-let artN = 0;
-function art(kind, letter) {
-  const id = `a${kind}${++artN % 40}`;
-  const grad = (c1, c2, c3) => `<defs><linearGradient id="${id}" x1="0" y1="0" x2="1" y2="1"><stop offset="0" stop-color="${c1}"/><stop offset=".55" stop-color="${c2}"/><stop offset="1" stop-color="${c3}"/></linearGradient></defs><rect width="400" height="400" fill="url(#${id})"/>`;
-  let body = '';
-  if (kind === 'yt') {
-    body = grad('#ff5a4f', '#c9142b', '#4a0614');
-    for (let i = 0; i < 6; i++) { const s = 340 - i * 52; body += `<path d="M${70 + i * 34} ${200 - s / 2}L${70 + i * 34 + s * .86} 200L${70 + i * 34} ${200 + s / 2}Z" fill="#fff" opacity="${.05 + i * .035}"/>`; }
-    body += '<path d="M150 130L275 200L150 270Z" fill="#fff"/>';
-  } else if (kind === 'dc') {
-    body = grad('#8f9bff', '#4a4fd6', '#17143f');
-    for (let i = 1; i < 8; i++) body += `<circle cx="200" cy="205" r="${i * 42}" fill="none" stroke="#fff" stroke-width="${7 - i * .7}" opacity="${.42 - i * .05}"/>`;
-    body += '<path d="M125 220v-22a75 75 0 0 1 150 0v22" fill="none" stroke="#fff" stroke-width="15" stroke-linecap="round"/><rect x="104" y="205" width="40" height="66" rx="16" fill="#fff"/><rect x="256" y="205" width="40" height="66" rx="16" fill="#fff"/>';
-  } else if (kind === 'war') {
-    body = grad(...ART.war);
-    for (let i = 0; i < 9; i++) body += `<path d="M-20 ${60 + i * 44}C 90 ${10 + i * 44}, 170 ${130 + i * 40}, 420 ${40 + i * 42}" fill="none" stroke="#fff" stroke-width="3" opacity=".2"/>`;
-    body += '<circle cx="200" cy="200" r="104" fill="none" stroke="#fff" stroke-width="12"/><circle cx="200" cy="200" r="16" fill="#fff"/><path d="M200 60v84M200 256v84M60 200h84M256 200h84" stroke="#fff" stroke-width="12" stroke-linecap="round"/>';
-  } else if (kind === 'cube') {
-    body = grad(...ART.cube);
-    body += '<g transform="rotate(14 200 200)"><rect x="82" y="82" width="236" height="236" rx="24" fill="#fff" opacity=".12"/><rect x="118" y="118" width="164" height="164" rx="14" fill="#fff"/><rect x="176" y="176" width="48" height="48" rx="6" fill="#55677a"/></g>';
-  } else {
-    body = grad(...(ART[kind] || ART.site));
-    body += `<text x="200" y="262" font-size="190" font-weight="800" text-anchor="middle" fill="#fff" font-family="Onest, Arial, sans-serif">${esc((letter || '?').toUpperCase())}</text>`;
-  }
-  return `<svg class="art" viewBox="0 0 400 400" preserveAspectRatio="xMidYMid slice" aria-hidden="true">${body}</svg>`;
+function art(kind, letter, wide) {
+  if (kind === 'wardogs') return `<img class="art" src="img/wardogs-${wide ? 'wide' : 'square'}.jpg" alt="" draggable="false">`;
+  const brand = BRANDS[kind];
+  if (brand) return `<span class="art art-brand" style="background:${brand.bg}">${brand.svg}</span>`;
+  return `<span class="art art-brand" style="background:linear-gradient(135deg,#55647a,#232c3a)"><b>${esc((letter || '?').toUpperCase())}</b></span>`;
 }
 
 let S = null;
@@ -164,7 +138,7 @@ function targetCard(t) {
   const s = targetState(t);
   return `<article class="t-card ${t.on ? 'on' : ''}" id="card-${esc(t.id)}">
     <button class="t-hit" data-act="toggleTarget" data-v="${esc(t.id)}" aria-pressed="${t.on}">
-      <span class="t-art" data-keep>${art(t.art, t.name[0])}</span>
+      <span class="t-art" data-keep>${art(t.art, t.name[0], true)}</span>
       <span class="t-tick">${icon('check', 16)}</span>
       <span class="t-body"><b>${esc(t.name)}</b><small>${esc(t.sub)}</small><em class="st ${s.cls}"><i></i>${s.text}</em></span>
     </button>
@@ -486,7 +460,7 @@ function paint() {
 }
 
 function render(pageChange) {
-  if (pageChange && document.startViewTransition && S.motion) {
+  if (pageChange && document.startViewTransition && S.motion && !document.hidden) {
     $('#view').scrollTop = 0;
     document.startViewTransition(paint);
   } else paint();

diff --git a/src/renderer/styles.css b/src/renderer/styles.css
@@ -93,7 +93,10 @@ body.ready { opacity: 1; }
 .st.bad { color: var(--bad); }
 .st.wait { color: var(--warn); }
 
-.art { position: absolute; inset: 0; width: 100%; height: 100%; display: block; }
+.art { position: absolute; inset: 0; width: 100%; height: 100%; display: block; object-fit: cover; }
+.art-brand { display: flex; align-items: center; justify-content: center; box-shadow: inset 0 0 0 1px rgba(255, 255, 255, .07); }
+.art-brand svg { height: 56%; max-width: 70%; }
+.art-brand b { color: #fff; font-size: 2.6em; font-weight: 800; }
 .t-tick { display: flex; align-items: center; justify-content: center; width: 26px; height: 26px; border-radius: 7px; border: 2px solid rgba(255, 255, 255, .6); background: rgba(0, 0, 0, .3); color: transparent; }
 .t-tick .ic { transform: scale(.5); transition: transform .24s var(--ease); }
 .on > * > .t-tick .ic, .on > .t-tick .ic, button.on > .t-tick .ic { transform: none; }

diff --git a/src/renderer/index.html b/src/renderer/index.html
@@ -24,6 +24,7 @@
 </div>
 <script src="vendor/morphdom-umd.min.js"></script>
 <script src="data.js"></script>
+<script src="brands.js"></script>
 <script src="fx.js"></script>
 <script src="app.js"></script>
 </body>

diff --git a/README.md b/README.md
@@ -115,7 +115,7 @@ npm run dist   # dist/zapret-setup-<версия>.exe
 - [bol-van/zapret](https://github.com/bol-van/zapret): `winws`, основа всего
 - [basil00/WinDivert](https://github.com/basil00/WinDivert): драйвер перехвата пакетов
 
-Лицензии сторонних компонентов перечислены в [THIRD-PARTY.txt](resources/THIRD-PARTY.txt). Приложение распространяется по лицензии [MIT](LICENSE). Пользуйтесь им в рамках законов своей страны.
+Лицензии сторонних компонентов перечислены в [THIRD-PARTY.txt](resources/THIRD-PARTY.txt). Приложение распространяется по лицензии [MIT](LICENSE), логотипы и названия игр и сервисов принадлежат их владельцам и в неё не входят. Пользуйтесь им в рамках законов своей страны.
 
 ---
 
